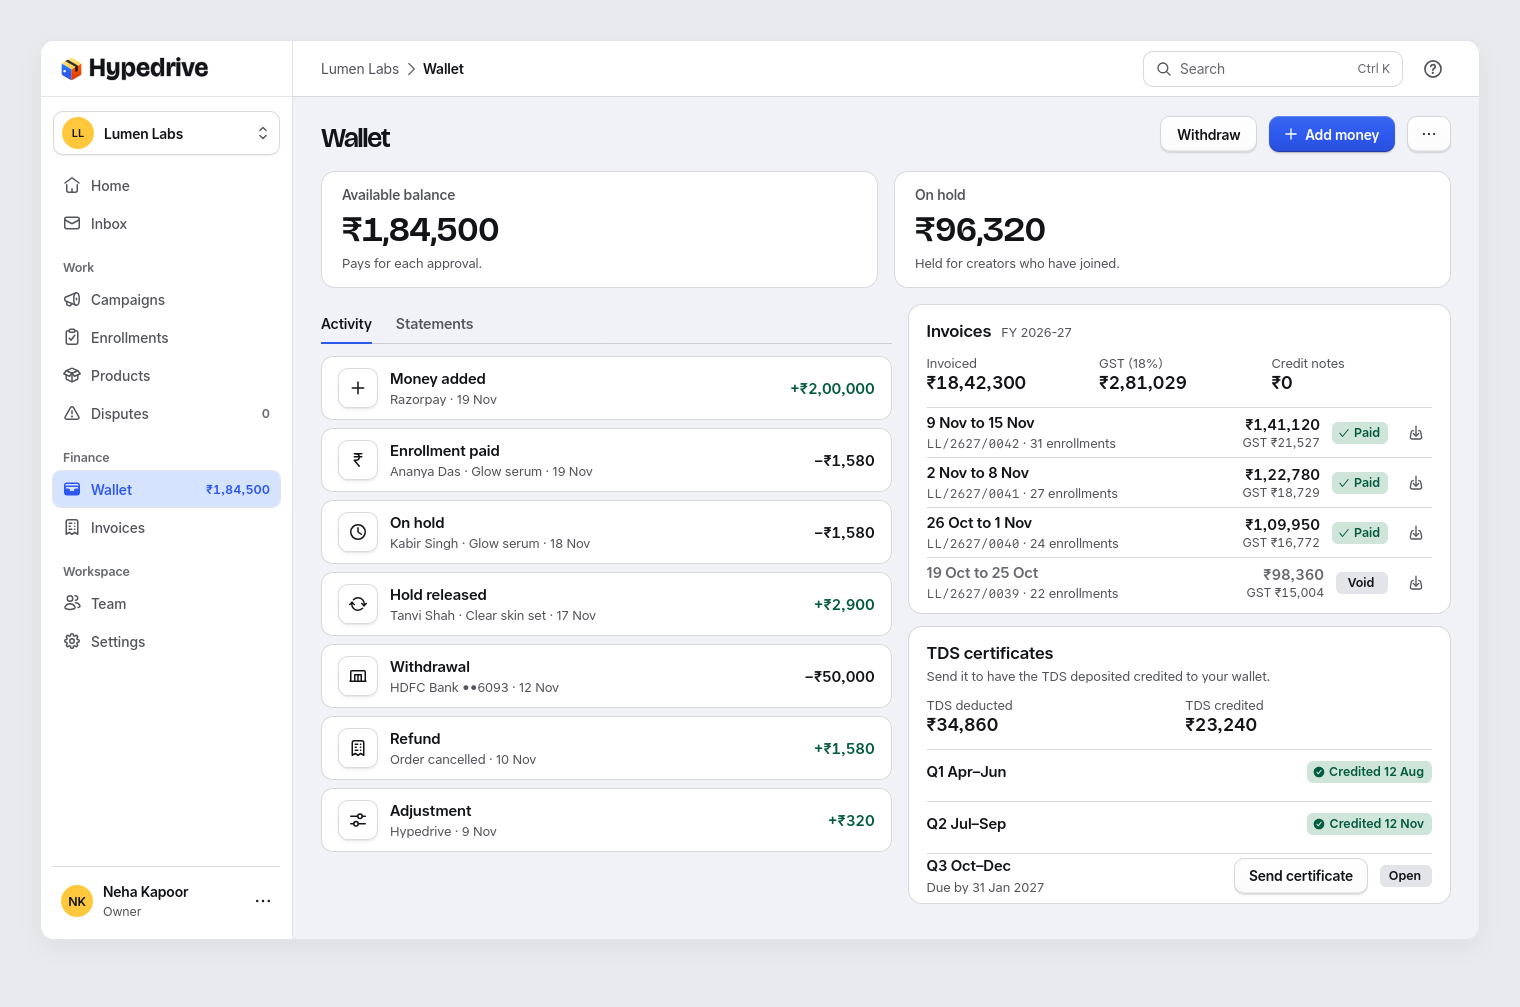
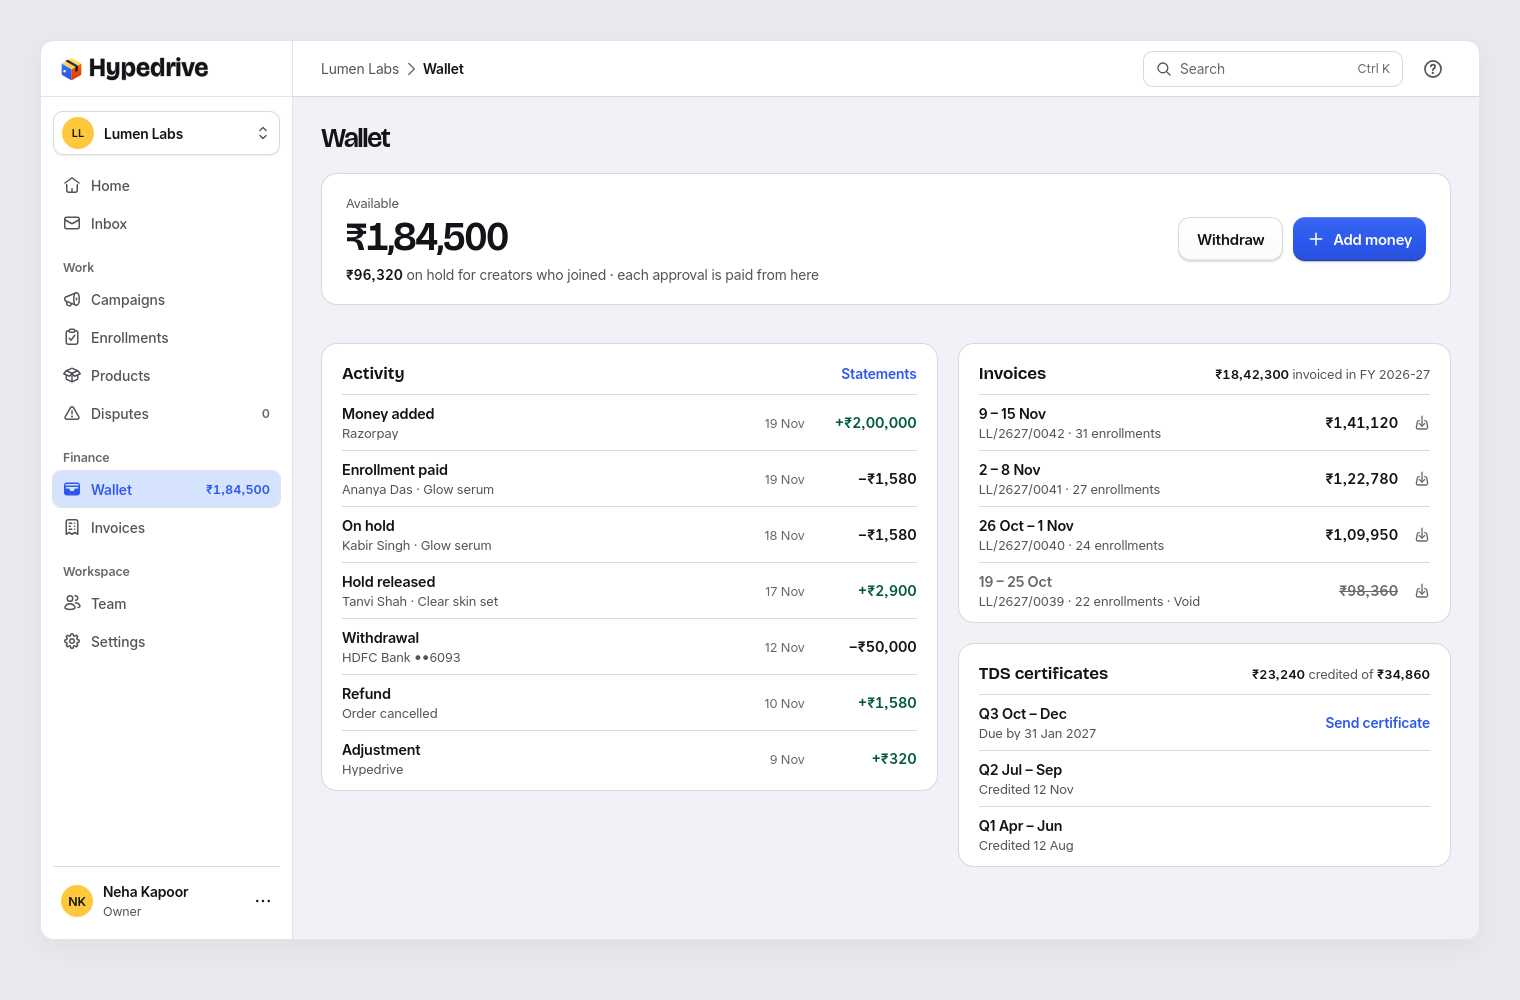
kit: brand Wallet decluttered — one balance with its actions, a quiet ledger, invoices and TDS as plain lists (only exceptions marked)

diff --git a/brand-identity/source/desk_b2.py b/brand-identity/source/desk_b2.py
@@ -81,32 +81,32 @@ def _inv(week, num, n, total, status):
             f'<div class="b2-iamt"><b class="num">{inr(total)}</b><small class="num">GST {inr(gst)}</small></div>{badge}<a class="btn g sm b2-dl" aria-label="Download">{ic("download", 16)}</a></div>')
 
 def d_wallet():
-    head = (f'<div class="ph"><div class="t"><div class="t-h1">Wallet</div></div>'
-            f'<button class="btn s sm">Withdraw</button><button class="btn p sm">{ic("plus", 16)}Add money</button><button class="btn s sm b2-sq" aria-label="More">{ic("more", 18)}</button></div>')
-    tiles = ('<div class="b2-tiles"><div class="b2-card b2-tile"><span>Available balance</span><b class="b2-big num">₹1,84,500</b><small>Pays for each approval.</small></div>'
-             '<div class="b2-card b2-tile"><span>On hold</span><b class="b2-big num">₹96,320</b><small>Held for creators who have joined.</small></div></div>')
-    acts = "".join([
-        _arow(ic("plus", 18), "Money added", "Razorpay · 19 Nov", "+₹2,00,000", "in"),
-        _arow(ic("rupee", 18), "Enrollment paid", "Ananya Das · Glow serum · 19 Nov", "−₹1,580"),
-        _arow(ic("clock", 18), "On hold", "Kabir Singh · Glow serum · 18 Nov", "−₹1,580"),
-        _arow(ic("refresh", 18), "Hold released", "Tanvi Shah · Clear skin set · 17 Nov", "+₹2,900", "in"),
-        _arow(ic("bank", 18), "Withdrawal", "HDFC Bank ••6093 · 12 Nov", "−₹50,000"),
-        _arow(ic("receipt", 18), "Refund", "Order cancelled · 10 Nov", "+₹1,580", "in"),
-        _arow(ic("sliders", 18), "Adjustment", "Hypedrive · 9 Nov", "+₹320", "in")])
-    left = (f'<div class="b2-col"><div class="b2-tabs"><span class="on">Activity</span><span>Statements</span></div><div class="b2-list">{acts}</div></div>')
-    invs = "".join([_inv("9 Nov to 15 Nov", "LL/2627/0042", 31, 141120, "Paid"), _inv("2 Nov to 8 Nov", "LL/2627/0041", 27, 122780, "Paid"),
-                    _inv("26 Oct to 1 Nov", "LL/2627/0040", 24, 109950, "Paid"), _inv("19 Oct to 25 Oct", "LL/2627/0039", 22, 98360, "Void")])
-    inv_card = (f'<div class="b2-card b2-inv"><div class="b2-sh2"><b>Invoices</b><span>FY 2026-27</span></div>'
-                '<div class="b2-sums"><div><span>Invoiced</span><b class="num">₹18,42,300</b></div><div><span>GST (18%)</span><b class="num">₹2,81,029</b></div><div><span>Credit notes</span><b class="num">₹0</b></div></div>'
-                f'<div class="b2-irs">{invs}</div></div>')
-    q = lambda n, r, s, act="": (f'<div class="b2-ir"><div class="b2-tt"><b>{n}</b>{f"<small>{r}</small>" if r else ""}</div>{act}{s}</div>')
-    tds = (f'<div class="b2-card b2-tds"><div class="b2-sh"><b>TDS certificates</b><span>Send it to have the TDS deposited credited to your wallet.</span></div>'
-           '<div class="b2-sums two"><div><span>TDS deducted</span><b class="num">₹34,860</b></div><div><span>TDS credited</span><b class="num">₹23,240</b></div></div>'
-           + q("Q1 Apr–Jun", "", '<span class="badge success">Credited 12 Aug</span>')
-           + q("Q2 Jul–Sep", "", '<span class="badge success">Credited 12 Nov</span>')
-           + q("Q3 Oct–Dec", "Due by 31 Jan 2027", '<span class="badge neutral">Open</span>', '<button class="btn s sm">Send certificate</button>') + '</div>')
-    right = f'<div class="b2-col">{inv_card}{tds}</div>'
-    page = f'{head}{tiles}<div class="b2-two">{left}{right}</div>'
+    """Wallet: one balance, a quiet ledger, invoices and TDS as plain lists. Paid and Credited are the normal case, so only exceptions are marked."""
+    head = '<div class="ph"><div class="t"><div class="t-h1">Wallet</div></div></div>'
+    bal = ('<div class="bw-bal"><div class="bw-bm"><small>Available</small><b class="num">₹1,84,500</b>'
+           '<p><span class="num">₹96,320</span> on hold for creators who joined · each approval is paid from here</p></div>'
+           f'<div class="bw-act"><button class="btn s">Withdraw</button><button class="btn p">{ic("plus", 18)}Add money</button></div></div>')
+    led = lambda t, d, date, amt, cr=False: (f'<div class="bw-lr"><div class="bw-tx"><b>{t}</b><small>{d}</small></div><span class="bw-d">{date}</span>'
+                                             f'<b class="num bw-a{" cr" if cr else ""}">{amt}</b></div>')
+    ledger = ('<div class="bw-card"><div class="bw-h"><b>Activity</b><em class="bw-lk">Statements</em></div>'
+              + led("Money added", "Razorpay", "19 Nov", "+₹2,00,000", True)
+              + led("Enrollment paid", "Ananya Das · Glow serum", "19 Nov", "−₹1,580")
+              + led("On hold", "Kabir Singh · Glow serum", "18 Nov", "−₹1,580")
+              + led("Hold released", "Tanvi Shah · Clear skin set", "17 Nov", "+₹2,900", True)
+              + led("Withdrawal", "HDFC Bank ••6093", "12 Nov", "−₹50,000")
+              + led("Refund", "Order cancelled", "10 Nov", "+₹1,580", True)
+              + led("Adjustment", "Hypedrive", "9 Nov", "+₹320", True) + '</div>')
+    dl = ic("download", 16)
+    inv = lambda wk, num, n, amt, void=False: (f'<div class="bw-lr{" void" if void else ""}"><div class="bw-tx"><b>{wk}</b><small>{num} · {n} enrollments{" · Void" if void else ""}</small></div>'
+                                              f'<b class="num bw-a">{amt}</b><span class="bw-ic">{dl}</span></div>')
+    invoices = ('<div class="bw-card"><div class="bw-h"><b>Invoices</b><span><span class="num">₹18,42,300</span> invoiced in FY 2026-27</span></div>'
+                + inv("9 – 15 Nov", "LL/2627/0042", 31, "₹1,41,120") + inv("2 – 8 Nov", "LL/2627/0041", 27, "₹1,22,780")
+                + inv("26 Oct – 1 Nov", "LL/2627/0040", 24, "₹1,09,950") + inv("19 – 25 Oct", "LL/2627/0039", 22, "₹98,360", True) + '</div>')
+    q = lambda n, d, act="": f'<div class="bw-lr"><div class="bw-tx"><b>{n}</b><small>{d}</small></div>{act}</div>'
+    tds = ('<div class="bw-card"><div class="bw-h"><b>TDS certificates</b><span><span class="num">₹23,240</span> credited of <span class="num">₹34,860</span></span></div>'
+           + q("Q3 Oct – Dec", "Due by 31 Jan 2027", '<em class="bw-lk">Send certificate</em>')
+           + q("Q2 Jul – Sep", "Credited 12 Nov") + q("Q1 Apr – Jun", "Credited 12 Aug") + '</div>')
+    page = f'{head}{bal}<div class="bw-grid"><div>{ledger}</div><div class="bw-side">{invoices}{tds}</div></div>'
     return shell(NAV_WALLET, ["Lumen Labs", "Wallet"], page)
 
 # ====================================================================== 7 · team and settings

diff --git a/brand-identity/source/xb2.py b/brand-identity/source/xb2.py
@@ -113,4 +113,29 @@ XB2 = """
 .b2-sec { display: flex; flex-direction: column; gap: 10px; }
 .b2-sech { display: flex; align-items: baseline; gap: 8px; } .b2-sech b { font-size: 15px; font-weight: 600; } .b2-sech span { font-size: 13px; color: var(--hd-fg-muted); }
 .b2-mrow .btn.s.sm { flex: none; }
+/* wallet, calm (bw-) */
+.bw-bal { background: var(--hd-surface); border: 1px solid var(--hd-edge); border-radius: 16px; padding: 20px 24px; display: flex; align-items: center; gap: 24px; margin-bottom: 20px; }
+.bw-bm { display: flex; flex-direction: column; flex: 1; min-width: 0; }
+.bw-act { display: flex; gap: 10px; flex: none; }
+.bw-bm small { font-size: 13px; line-height: 18px; color: var(--hd-fg-muted); }
+.bw-bm > b { font-family: var(--font-brand); font-size: 40px; line-height: 46px; font-weight: 700; letter-spacing: -0.025em; font-variation-settings: 'opsz' 96; color: var(--hd-fg); margin-top: 2px; }
+.bw-bm p { margin: 4px 0 0; font-size: 14px; line-height: 20px; color: var(--hd-fg-muted); }
+.bw-bm p .num { color: var(--hd-fg); font-weight: 600; }
+.bw-grid { display: grid; grid-template-columns: 1.25fr 1fr; gap: 20px; align-items: start; }
+.bw-side { display: flex; flex-direction: column; gap: 20px; }
+.bw-card { background: var(--hd-surface); border: 1px solid var(--hd-edge); border-radius: 16px; padding: 4px 20px; }
+.bw-h { display: flex; align-items: baseline; justify-content: space-between; gap: 12px; padding: 14px 0 10px; }
+.bw-h > b { font-family: var(--font-brand); font-size: 17px; line-height: 22px; font-weight: 650; }
+.bw-h > span { font-size: 13px; color: var(--hd-fg-muted); } .bw-h > span .num { color: var(--hd-fg); font-weight: 600; }
+.bw-lk { font-style: normal; font-weight: 600; font-size: 14px; color: var(--hd-link); }
+.bw-lr { display: flex; align-items: center; gap: 16px; min-height: 56px; border-top: 1px solid var(--hd-edge); }
+.bw-tx { display: flex; flex-direction: column; gap: 1px; flex: 1; min-width: 0; }
+.bw-tx b { font-size: 14.5px; line-height: 20px; font-weight: 600; color: var(--hd-fg); }
+.bw-tx small { font-size: 13px; line-height: 18px; color: var(--hd-fg-muted); white-space: nowrap; overflow: hidden; text-overflow: ellipsis; }
+.bw-d { font-size: 13px; color: var(--hd-fg-subtle); width: 52px; text-align: right; flex: none; }
+.bw-a { font-size: 14.5px; font-weight: 600; color: var(--hd-fg); min-width: 96px; text-align: right; flex: none; }
+.bw-a.cr { color: var(--hd-success-strong); }
+.bw-ic { color: var(--hd-fg-subtle); flex: none; display: inline-flex; }
+.bw-lr.void .bw-tx b, .bw-lr.void .bw-a { color: var(--hd-fg-subtle); }
+.bw-lr.void .bw-a { text-decoration: line-through; }
 """
